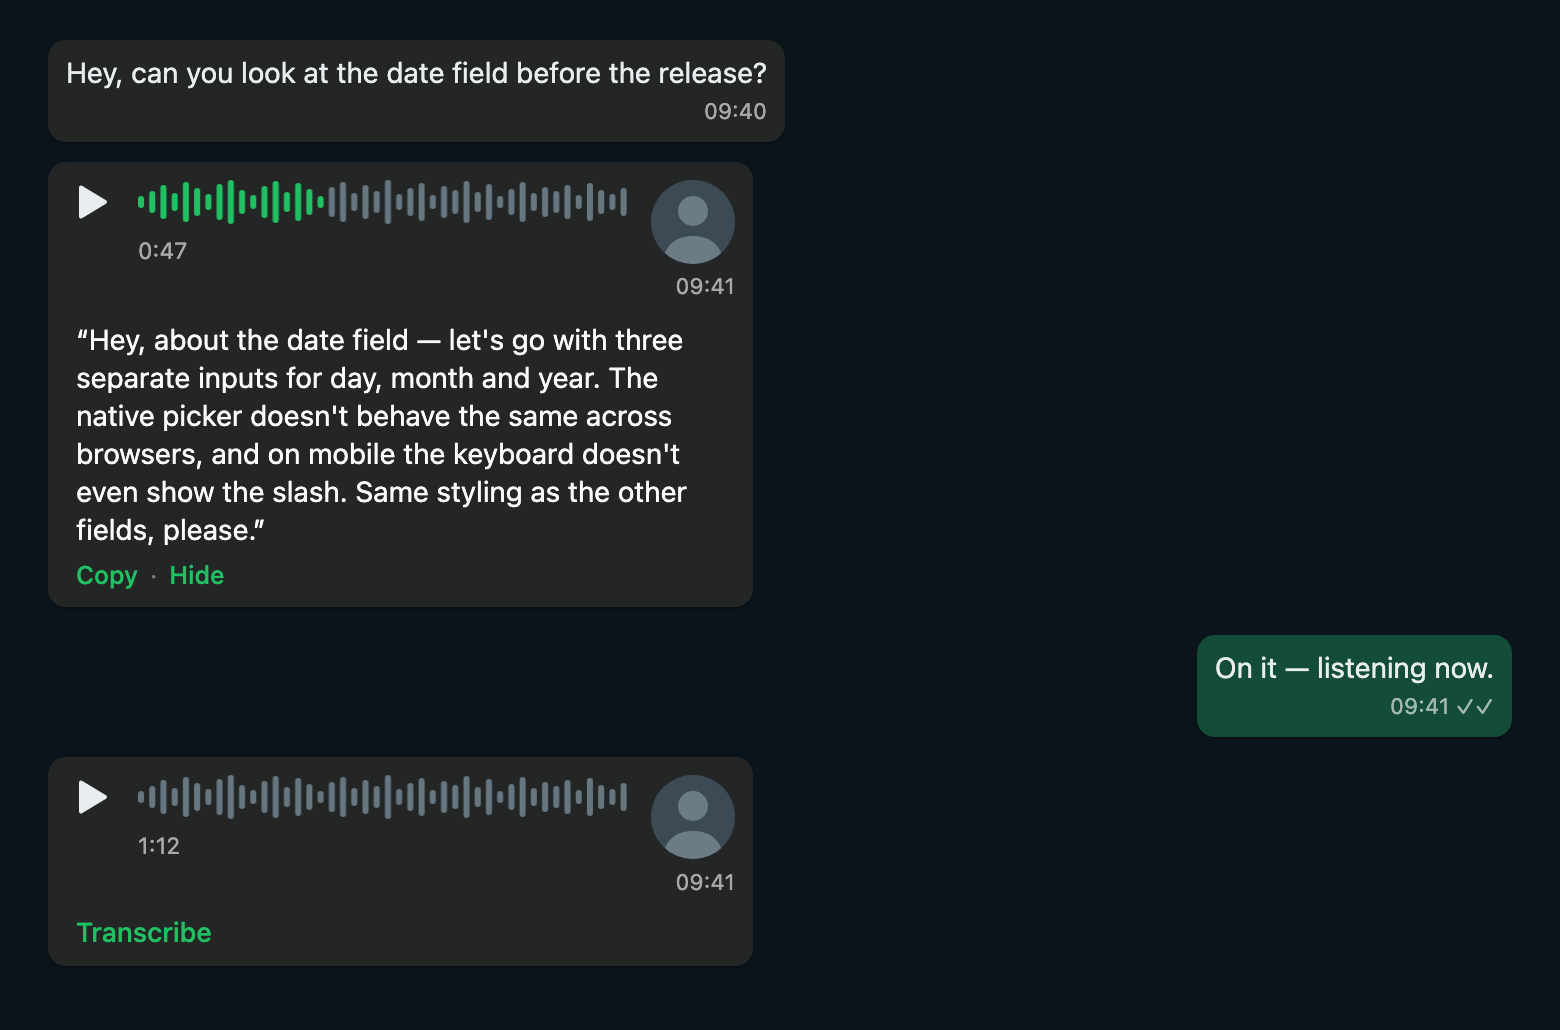
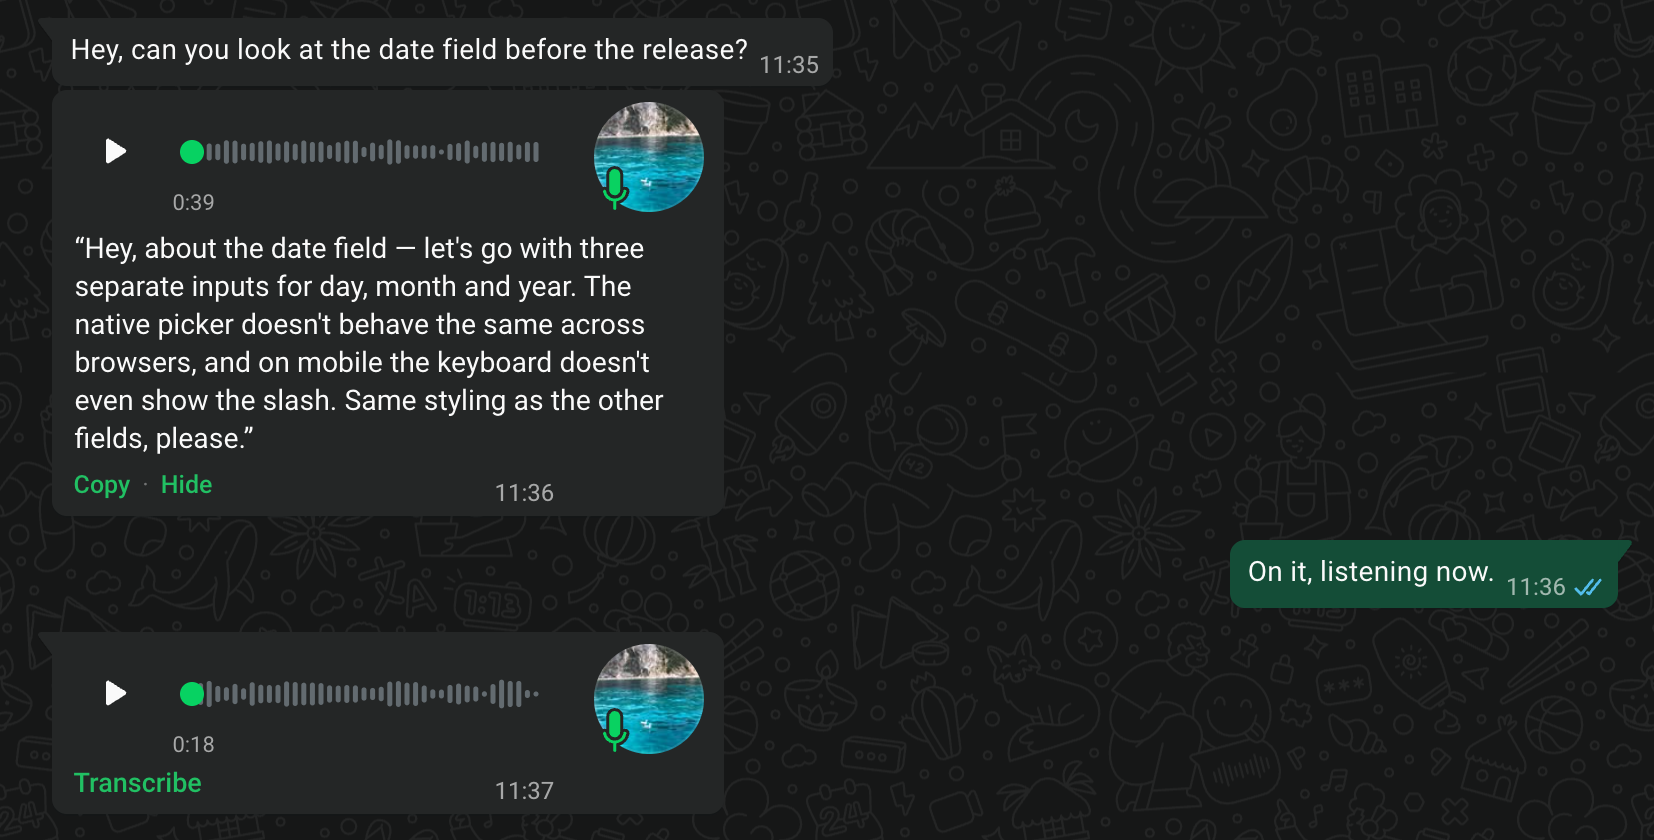
Aggiorna il README per chiarire il contesto dello screenshot e sostituisce l'immagine di esempio

diff --git a/README.md b/README.md
@@ -9,8 +9,9 @@ it runs.
 
 ![The Transcribe link and a finished transcript inside a WhatsApp Web bubble](docs/screenshot.png)
 
-*The conversation is a mock-up — no real messages. The transcript panel, the
-links and the styling are rendered by the extension itself.*
+*Real WhatsApp Web. A test conversation, so no private messages — the voice notes
+were recorded for this screenshot, and the text above is what the extension
+actually produced from them.*
 
 > **Not affiliated with, endorsed by, or sponsored by WhatsApp or Meta.**
 > This is an independent, unofficial project. "WhatsApp" is a trademark of its
